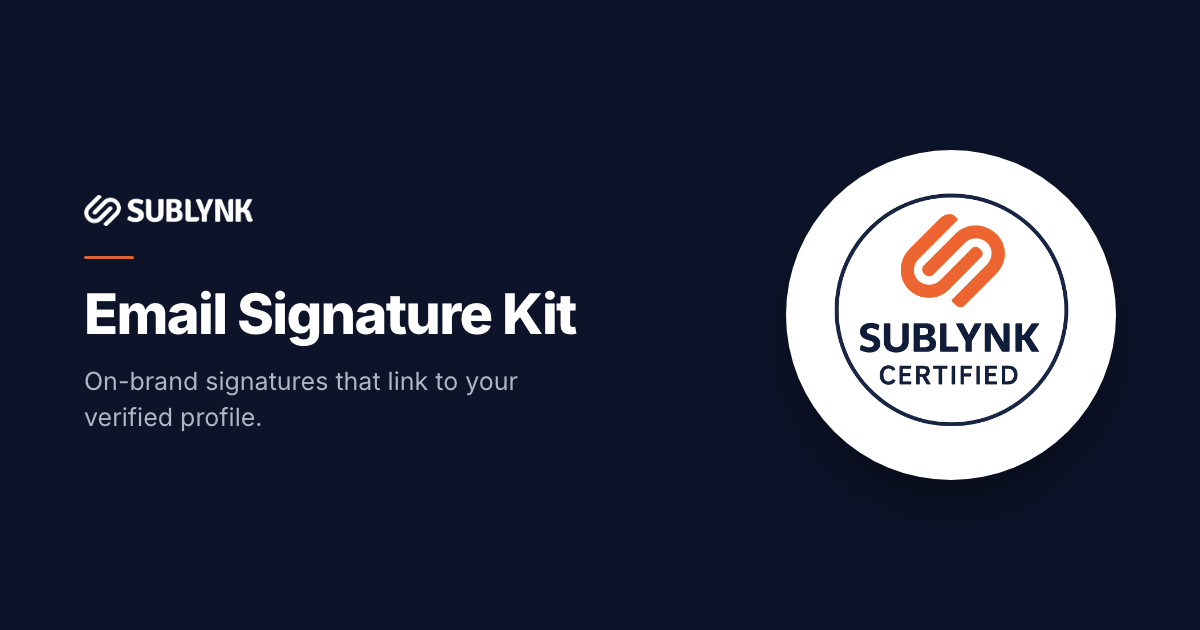
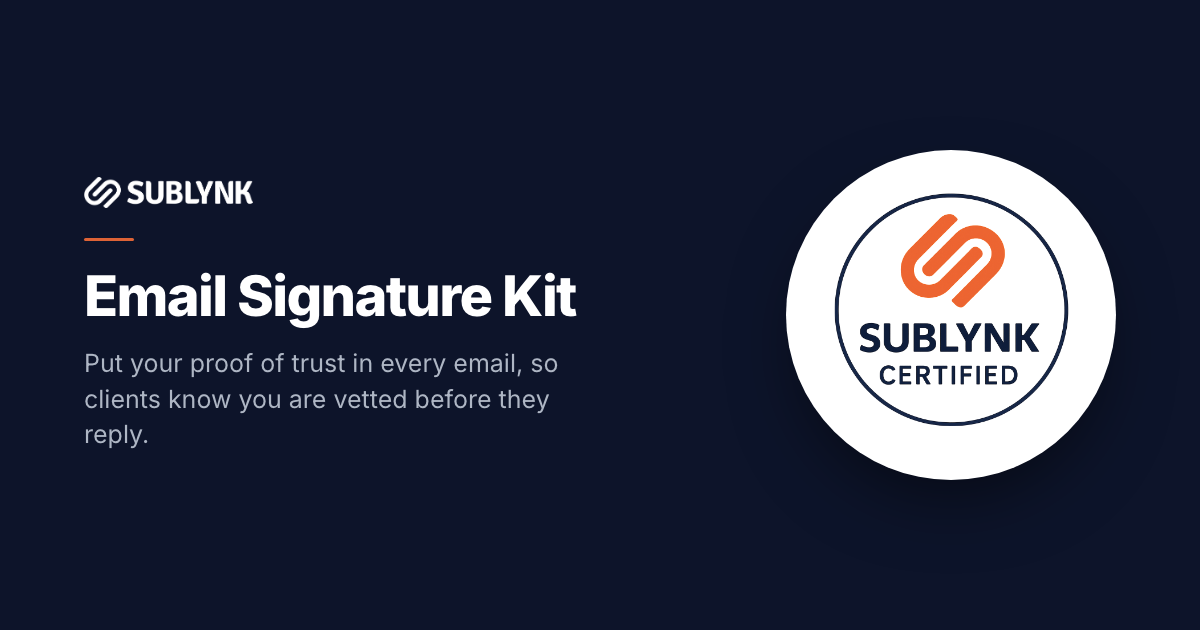
OG copy: rewrite in Chris voice, drop generic "network"
Email Signature, Elite Share Kit, Grow with Sublynk, and vs Profile Gorilla share cards + og/twitter descriptions now use the approved framing (proof of trust, vetted/insured/real, win the job, no lead fees). No generic "network" tagline.

Changed region(s): [[0.0617, 0.2714, 0.4933, 0.7238]]

diff --git a/sublynkvsprofilegorilla.html b/sublynkvsprofilegorilla.html
@@ -3,14 +3,14 @@
 <meta property="og:type" content="website">
 <meta property="og:site_name" content="Sublynk">
 <meta property="og:title" content="Sublynk vs Profile Gorilla">
-<meta property="og:description" content="One profile, unlimited networks, no review fees. See what you save.">
+<meta property="og:description" content="One profile, no lead fees, no per-check review fee. See what you save.">
 <meta property="og:url" content="https://zenatsublynk.github.io/sublynk/sublynkvsprofilegorilla.html">
 <meta property="og:image" content="https://zenatsublynk.github.io/sublynk/og/sublynkvsprofilegorilla.png">
 <meta property="og:image:width" content="1200">
 <meta property="og:image:height" content="630">
 <meta name="twitter:card" content="summary_large_image">
 <meta name="twitter:title" content="Sublynk vs Profile Gorilla">
-<meta name="twitter:description" content="One profile, unlimited networks, no review fees. See what you save.">
+<meta name="twitter:description" content="One profile, no lead fees, no per-check review fee. See what you save.">
 <meta name="twitter:image" content="https://zenatsublynk.github.io/sublynk/og/sublynkvsprofilegorilla.png"><meta name="viewport" content="width=device-width,initial-scale=1"><title>Sublynk vs Profile Gorilla — Cost Calculator</title>
 <style>
  :root{--navy:#0d142a;--orange:#dd6336;--bg:#f5f5f4;--border:#e7e5e4;--ink:#0c0a09;--muted:#78716c;--green:#15803d;--red:#b8431f}

diff --git a/email-signature.html b/email-signature.html
@@ -5,14 +5,14 @@
 <meta property="og:type" content="website">
 <meta property="og:site_name" content="Sublynk">
 <meta property="og:title" content="Email Signature Kit · Sublynk">
-<meta property="og:description" content="On-brand email signatures that link to your verified Sublynk Certified profile.">
+<meta property="og:description" content="Put your proof of trust in every email, so clients know you are vetted before they reply.">
 <meta property="og:url" content="https://zenatsublynk.github.io/sublynk/email-signature.html">
 <meta property="og:image" content="https://zenatsublynk.github.io/sublynk/og/email-signature.png">
 <meta property="og:image:width" content="1200">
 <meta property="og:image:height" content="630">
 <meta name="twitter:card" content="summary_large_image">
 <meta name="twitter:title" content="Email Signature Kit · Sublynk">
-<meta name="twitter:description" content="On-brand email signatures that link to your verified Sublynk Certified profile.">
+<meta name="twitter:description" content="Put your proof of trust in every email, so clients know you are vetted before they reply.">
 <meta name="twitter:image" content="https://zenatsublynk.github.io/sublynk/og/email-signature.png">
 <meta name="viewport" content="width=device-width, initial-scale=1">
 <title>Email Signature Builder · Sublynk</title>

diff --git a/elite-share-kit.html b/elite-share-kit.html
@@ -6,14 +6,14 @@
 <meta property="og:type" content="website">
 <meta property="og:site_name" content="Sublynk">
 <meta property="og:title" content="Elite Contractor Share Kit · Sublynk">
-<meta property="og:description" content="Share your Sublynk Certified badge to LinkedIn and beyond in one click.">
+<meta property="og:description" content="Show homeowners and adjusters you are vetted, insured, and real, in one click.">
 <meta property="og:url" content="https://zenatsublynk.github.io/sublynk/elite-share-kit.html">
 <meta property="og:image" content="https://zenatsublynk.github.io/sublynk/og/elite-share-kit.png">
 <meta property="og:image:width" content="1200">
 <meta property="og:image:height" content="630">
 <meta name="twitter:card" content="summary_large_image">
 <meta name="twitter:title" content="Elite Contractor Share Kit · Sublynk">
-<meta name="twitter:description" content="Share your Sublynk Certified badge to LinkedIn and beyond in one click.">
+<meta name="twitter:description" content="Show homeowners and adjusters you are vetted, insured, and real, in one click.">
 <meta name="twitter:image" content="https://zenatsublynk.github.io/sublynk/og/elite-share-kit.png">
   <style>
     * { margin: 0; padding: 0; box-sizing: border-box; }

diff --git a/contractor-guide.html b/contractor-guide.html
@@ -6,14 +6,14 @@
 <meta property="og:type" content="website">
 <meta property="og:site_name" content="Sublynk">
 <meta property="og:title" content="Grow with Sublynk · Sublynk">
-<meta property="og:description" content="The step-by-step playbook to win more jobs with your Sublynk profile.">
+<meta property="og:description" content="When two bids look the same, the vetted contractor wins. Here is the playbook.">
 <meta property="og:url" content="https://zenatsublynk.github.io/sublynk/contractor-guide.html">
 <meta property="og:image" content="https://zenatsublynk.github.io/sublynk/og/contractor-guide.png">
 <meta property="og:image:width" content="1200">
 <meta property="og:image:height" content="630">
 <meta name="twitter:card" content="summary_large_image">
 <meta name="twitter:title" content="Grow with Sublynk · Sublynk">
-<meta name="twitter:description" content="The step-by-step playbook to win more jobs with your Sublynk profile.">
+<meta name="twitter:description" content="When two bids look the same, the vetted contractor wins. Here is the playbook.">
 <meta name="twitter:image" content="https://zenatsublynk.github.io/sublynk/og/contractor-guide.png">
   <style>
     * { margin: 0; padding: 0; box-sizing: border-box; }
